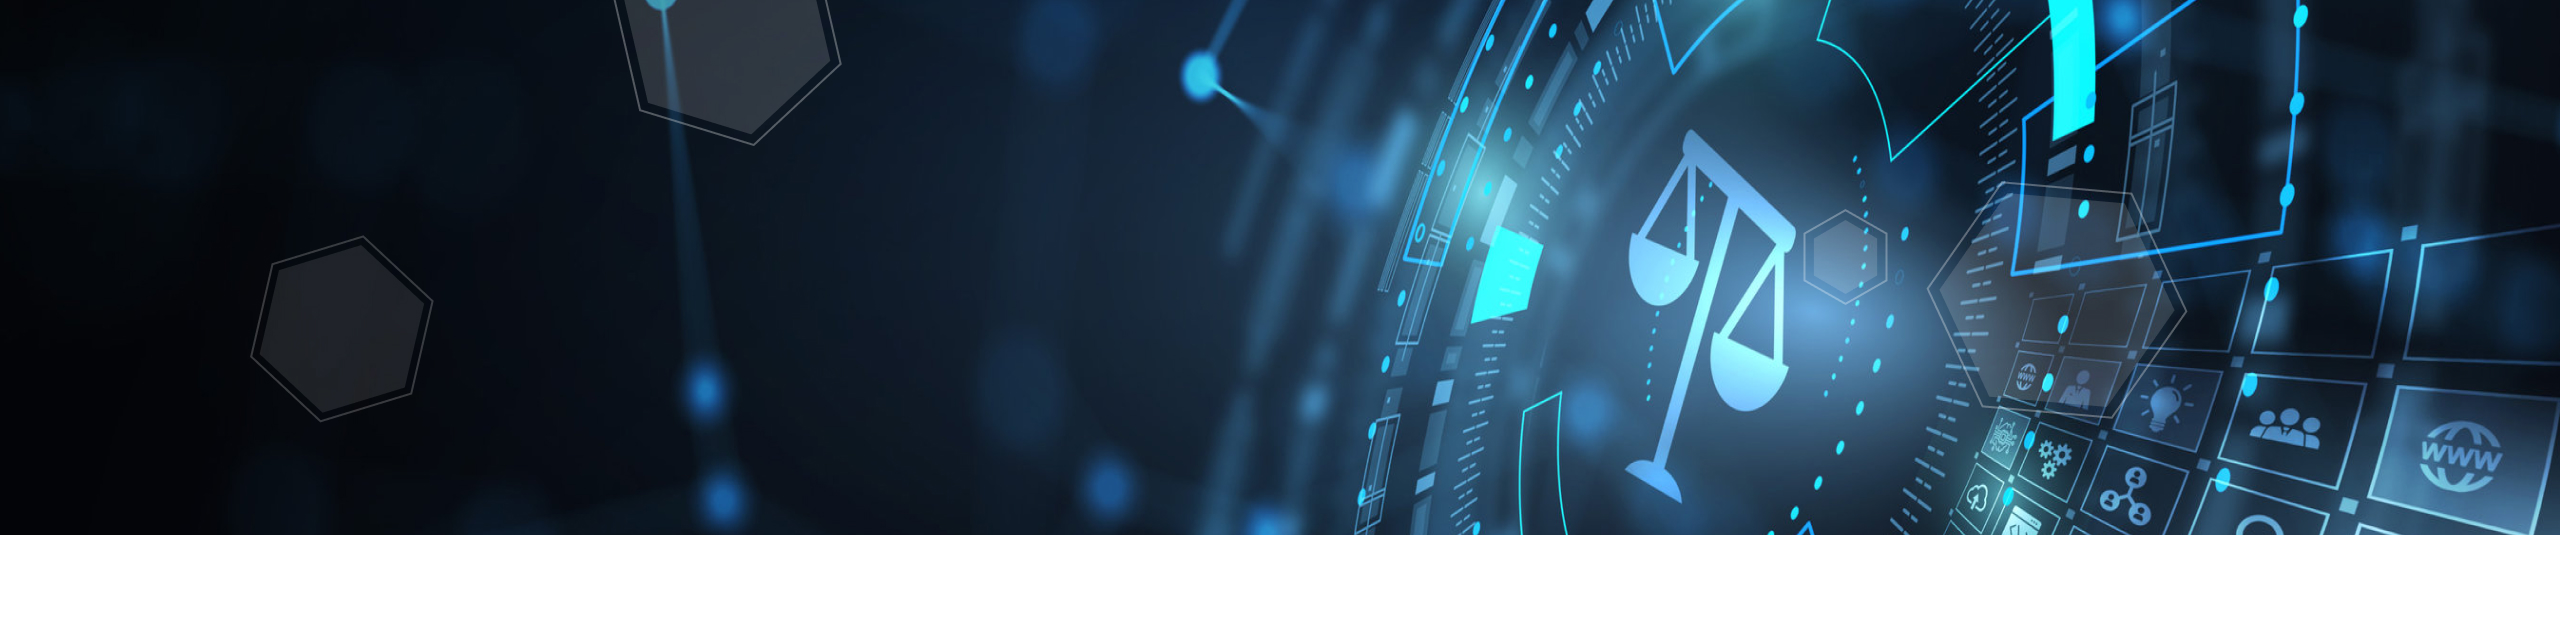
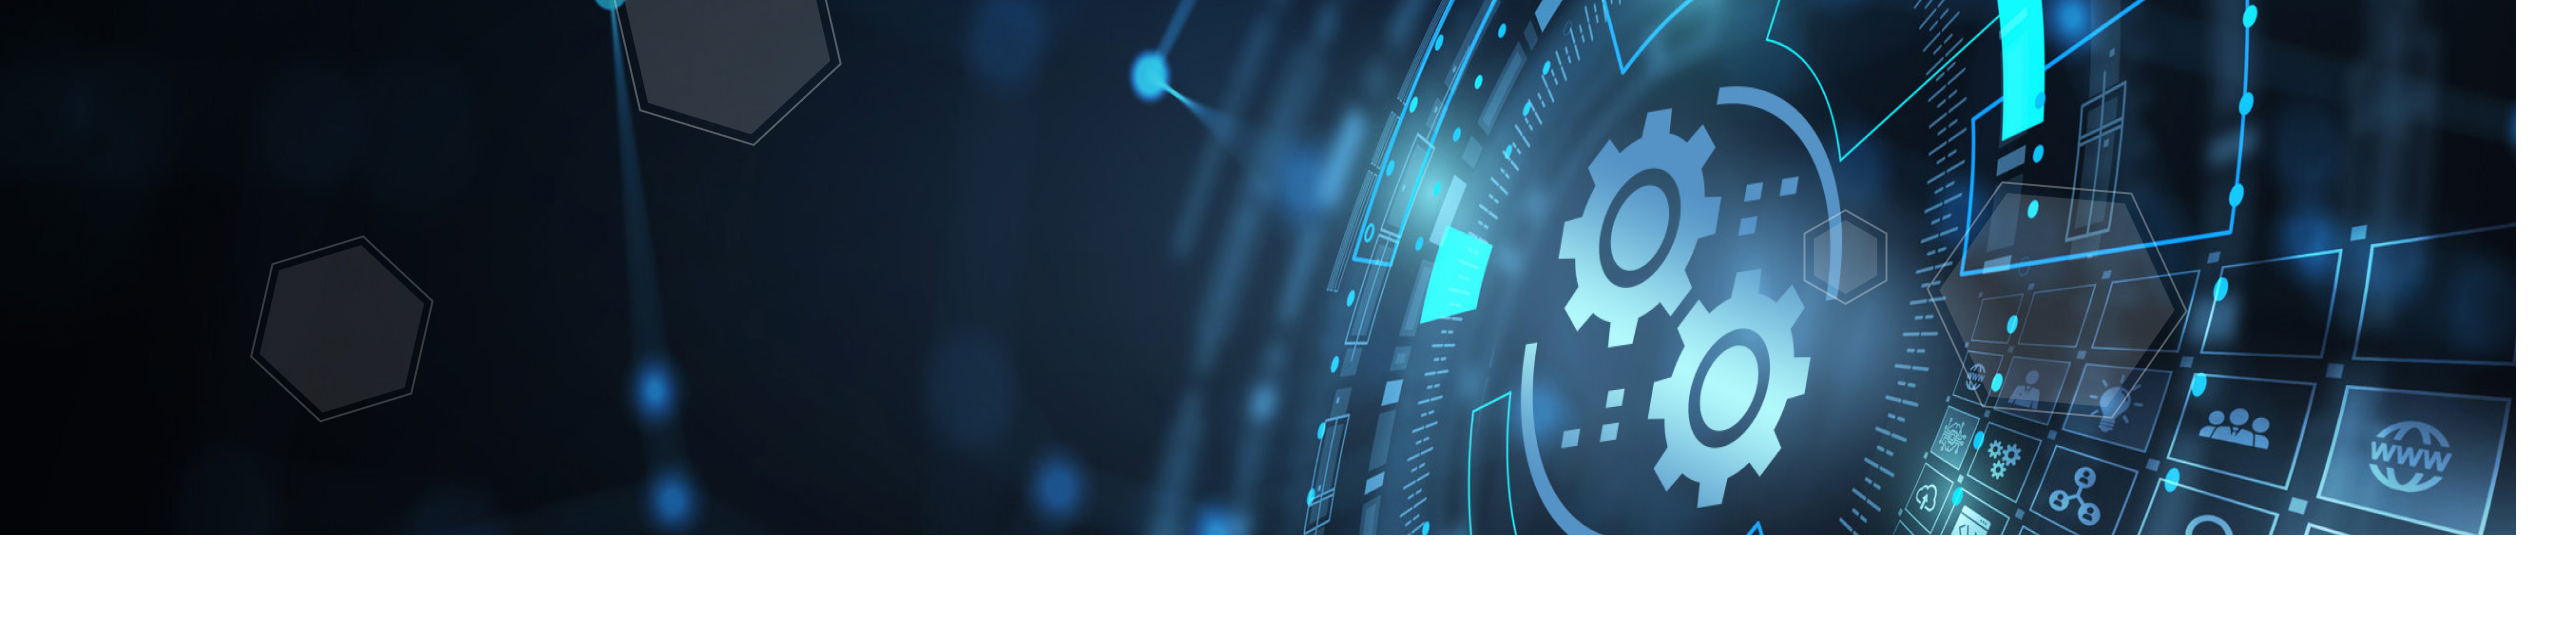
Testimonials ready for publish

diff --git a/pages/resources/testimonial.vue b/pages/resources/testimonial.vue
@@ -21,8 +21,27 @@
                     <div class="flex-group">
                         <div v-for="(item, index) in testimonials" :key="index"
                             class="flex-group-card">
-                            <div
-                                :class="[ index % 2 == 0 ? 'highlight' : '', 'tw-mb-10 tw-mx-2 tw-p-5 md:tw-p-8 xl:tw-p-10 quote-card', ]">
+                            <div v-if="index <= 10"
+                                :class="[ index % 2 == 0 ? 'highlight' : '', 'tw-mb-10 tw-mx-2 tw-p-5 md:tw-p-8 xl:tw-p-10 quote-card' ]">
+                                <div class="tw-text-sm md:tw-text-base xl:tw-text-lg">
+                                    {{ item.quote }}
+                                </div>
+                                <div class="middle-divider tw-mt-4">
+                                    <div class="tw-z-10 tw-w-16 tw-h-16 tw-rounded-full tw-bg-no-repeat tw-bg-contain"
+                                        :style=" 'background-image: url(images/agency/' + item.logo + ')' ">
+                                    </div>
+                                </div>
+                                <div
+                                    class="tw-text-center tw-text-sm md:tw-text-base lg:tw-text-lg tw-font-semibold tw-mt-5">
+                                    {{ item.author }}
+                                </div>
+                                <div
+                                    class="tw-text-center tw-text-xs md:tw-text-sm xl:tw-text-base tw-opacity-60">
+                                    {{ item.agency }}
+                                </div>
+                            </div>
+                            <div v-else
+                                :class="[ index % 2 == 1 ? 'highlight' : '', 'tw-mb-10 tw-mx-2 tw-p-5 md:tw-p-8 xl:tw-p-10 quote-card' ]">
                                 <div class="tw-text-sm md:tw-text-base xl:tw-text-lg">
                                     {{ item.quote }}
                                 </div>
@@ -101,7 +120,7 @@ export default {
             column3All.push(
                 TMS[0], TMS[3], TMS[6], TMS[9], TMS[12],
                 TMS[1], TMS[4], TMS[7], TMS[10], TMS[13], TMS[15],
-                TMS[2], TMS[5], TMS[8], TMS[11], TMS[14]
+                TMS[2], TMS[5], TMS[8], TMS[11], TMS[14],
             )
             if (this.showAll) {
                 switch (this.$vuetify.breakpoint.name) {

diff --git a/components/IndexVideos.vue b/components/IndexVideos.vue
@@ -36,7 +36,7 @@
             </div> -->
                         <img src="videos/index-video-2.jpg" />
                     </div>
-                    <!-- <img class="active" src="videos/ending.gif" /> -->
+                    <img class="active" src="videos/index-video-2.jpg" />
                 </div>
             </div>
 
@@ -69,7 +69,7 @@
             </div> -->
                         <img src="videos/index-video-3.jpg" />
                     </div>
-                    <!-- <img class="active" src="videos/ending.gif" /> -->
+                    <img class="active" src="videos/index-video-3.jpg" />
                 </div>
             </div>
         </div>

diff --git a/nuxt.config.js b/nuxt.config.js
@@ -65,7 +65,7 @@ export default {
   },
   ssr: false,
   generate: {
-    dir: 'Test-V2.8-08022022',
+    dir: 'Test-V2.8-08082022',
     routes: dynamicRoutes,
   },
 
